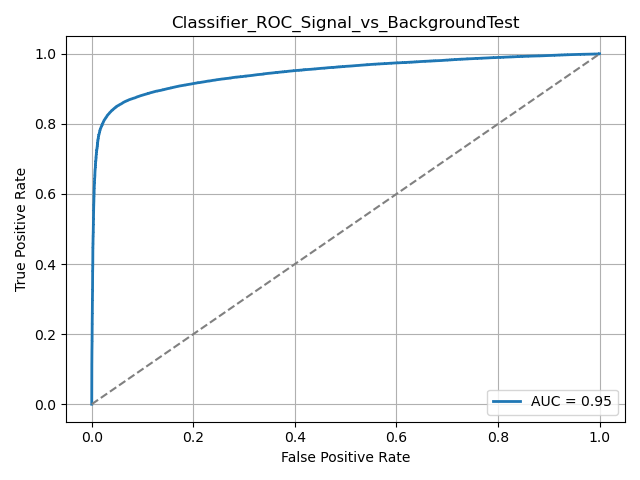
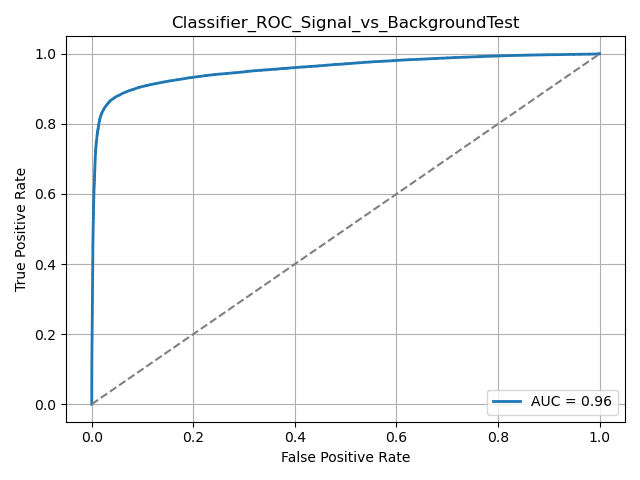
NEW GRAPHS FOR RELU

Changed region(s): [[0.125, 0.0938, 0.9062, 0.3438], [0.9375, 0.8125, 0.9688, 0.8438]]

diff --git a/next3.py b/next3.py
@@ -737,7 +737,8 @@ for idx, name in enumerate(flattened_names):
 
     # 2) pick bin edges (50 bins here; change if you want)
     edges = np.linspace(all_vals.min(), all_vals.max(), 51)
-
+     
+    """ CS230 COMMENTED OUT
     # 3) print stats
     print(f"\n==== {name} ====")
     print_bin_stats(train_vals[0], edges, "train_sig")
@@ -745,6 +746,7 @@ for idx, name in enumerate(flattened_names):
     print_bin_stats(test_vals[0],  edges, "test_sig")
     print_bin_stats(test_vals[1],  edges, "test_bkg")
 
+    CS230 COMMENTED OUT"""
 pz_col = 12
 
 signal_mask_train = (Y_train == 1)
@@ -802,6 +804,7 @@ for idx, name in enumerate(flattened_names):
   train_vals = X_train[Y_train == 1, idx], X_train[Y_train == 0, idx] #mask and then idx means column for feature element (matrix composition: rows - event # (?), columns - feature/types like ele.pos, ele.pz)
   test_vals = X_test[Y_test == 1, idx], X_test[Y_test == 0, idx]
   #figure with two subplots
+  """CS230 COMMENTED OUT 
   fig, (ax_tr, ax_te) = plt.subplots(1, 2, figsize=(10,4), sharey=True)
 
   #train-set histograms
@@ -818,7 +821,7 @@ for idx, name in enumerate(flattened_names):
   ax_te.set_title(f'Test: {name}')
   ax_te.set_xlabel(name)
   ax_te.legend()
-""" CS230 COMMENTED OUT 
+CS230 COMMENTED OUT 
   fig.suptitle(f'Distribution of {name}', fontsize=15)
   fig.tight_layout()
   safe_name = name.replace('.', '_').replace('[', '_').replace(']', '')
